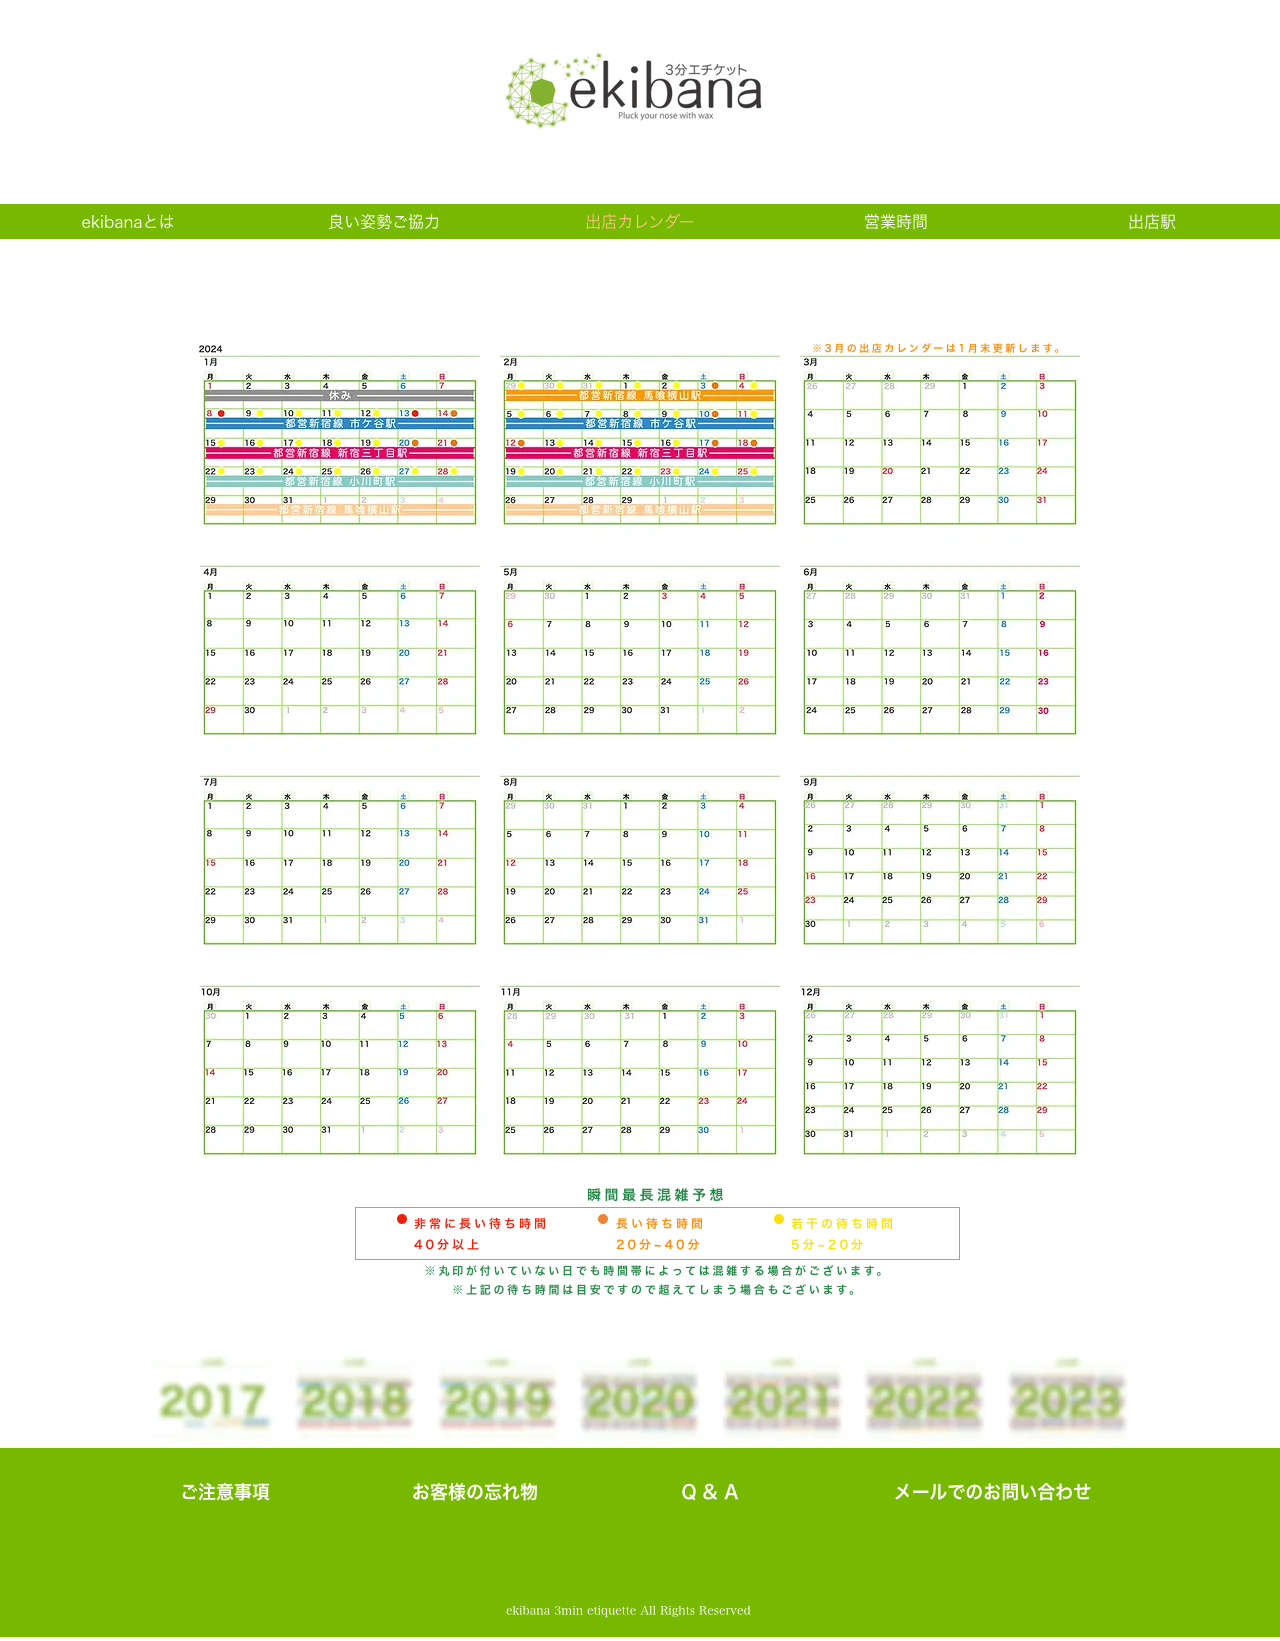
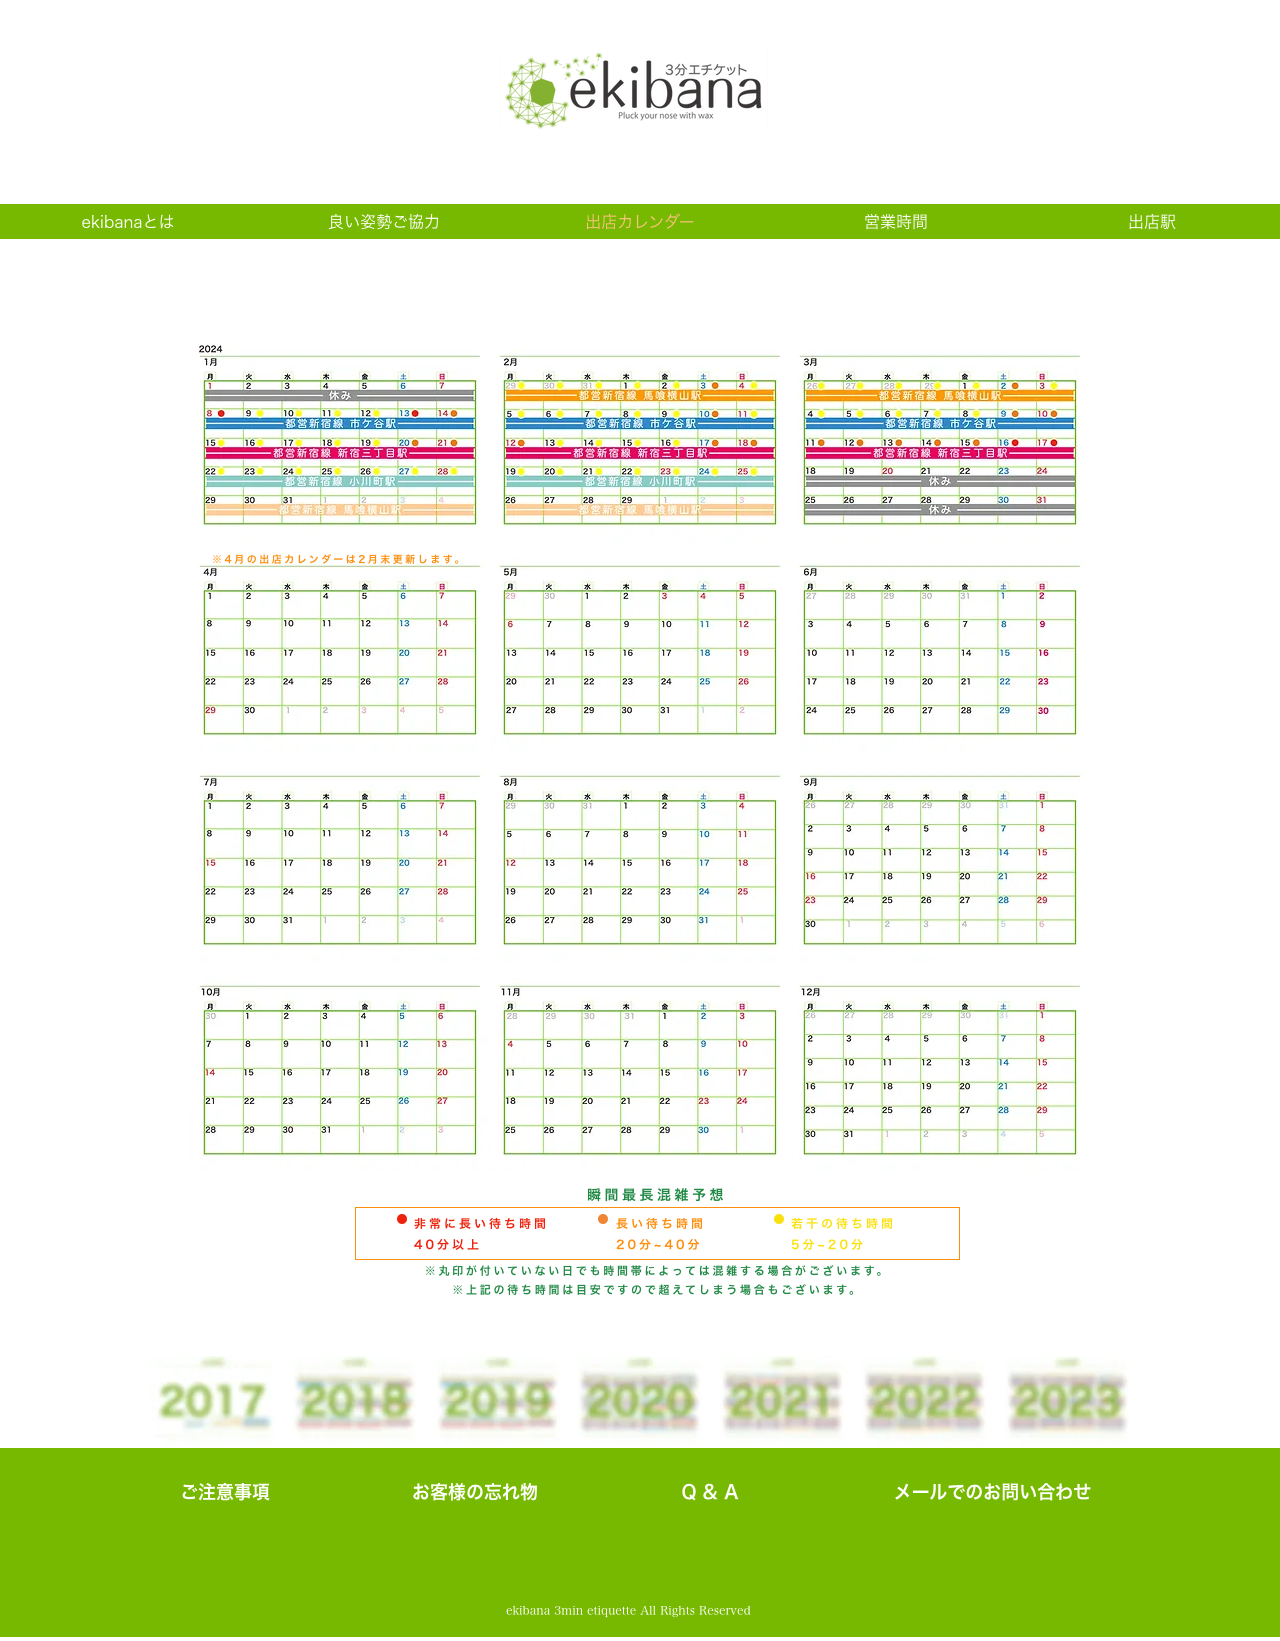
Add schedules for March 2024

Changed region(s): [[0.625, 0.2176, 0.8438, 0.3419]]

diff --git a/hanage/schedules.ts b/hanage/schedules.ts
@@ -366,6 +366,28 @@ const schedules2024: SchedulesOfMonth = {
       to: "2024-02-29",
     },
   ],
+  3: [
+    {
+      station: stations.bakuroYokoyama,
+      from: "2024-03-01",
+      to: "2024-03-03",
+    },
+    {
+      station: stations.ichigaya,
+      from: "2024-03-04",
+      to: "2024-03-10",
+    },
+    {
+      station: stations.shinjukuSanchome,
+      from: "2024-03-11",
+      to: "2024-03-17",
+    },
+    {
+      station: holiday,
+      from: "2024-03-18",
+      to: "2024-03-31",
+    },
+  ],
 };
 
 const schedules: SchedulesOfYear = {
